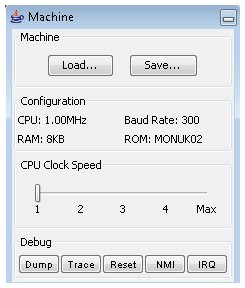
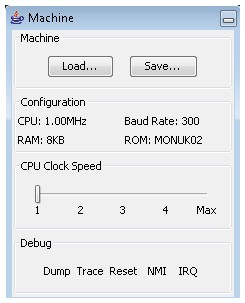
Updates for better operation on a Mac

diff --git a/src/uk101/view/MachineView.java b/src/uk101/view/MachineView.java
@@ -6,26 +6,25 @@
 package uk101.view;
 
 import java.awt.Container;
-import java.awt.FlowLayout;
 import java.awt.GridLayout;
 import java.awt.event.ActionEvent;
 import java.awt.event.ActionListener;
 
+import javax.swing.AbstractButton;
 import javax.swing.BorderFactory;
 import javax.swing.Box;
 import javax.swing.BoxLayout;
 import javax.swing.JButton;
 import javax.swing.JInternalFrame;
 import javax.swing.JPanel;
-import javax.swing.JToolBar;
+import javax.swing.JToggleButton;
 import javax.swing.Timer;
 import javax.swing.event.ChangeEvent;
 import javax.swing.event.ChangeListener;
 
 import uk101.machine.Computer;
+import uk101.view.component.DebugPanel;
 import uk101.view.component.DisplayText;
-import uk101.view.component.SmallButton;
-import uk101.view.component.SmallToggle;
 import uk101.view.component.SpeedSelector;
 
 /**
@@ -64,7 +63,8 @@ public class MachineView extends JInternalFrame implements ActionListener, Chang
         JButton save = new JButton(ComputerView.IMAGE_SAVE);
         load.addActionListener(computerView);
         save.addActionListener(computerView);
-        mp.add(load);  mp.add(Box.createHorizontalStrut(5));
+        mp.add(load);  
+        mp.add(Box.createHorizontalStrut(5));
         mp.add(save);
 
         // Information panel
@@ -86,33 +86,17 @@ public class MachineView extends JInternalFrame implements ActionListener, Chang
         sp.add(cpuClock);
         
         // Debug panel
-        JPanel dp = new JPanel();
-        dp.setAlignmentY(CENTER_ALIGNMENT);
+        AbstractButton[] db = new AbstractButton[5];
+        db[0] = new JButton(MACHINE_DUMP); 
+        db[1] = new JToggleButton(MACHINE_TRACE);
+        db[2] = new JButton(MACHINE_RESET);
+        db[3] = new JButton(MACHINE_NMI); 
+        db[4] = new JButton(MACHINE_IRQ);
+        
+        JPanel dp = new DebugPanel(db, this);
         dp.setBorder(BorderFactory.createTitledBorder("Debug"));
-        if (!Computer.aquaFix1) {
-            // Normally we get the best look for the debug buttons by adding 
-            // the SmallButton instances to a one-line grid layout ... 
-            dp.setLayout(new GridLayout(1, 0));
-            dp.add(new SmallButton(MACHINE_DUMP, this));
-            dp.add(new SmallToggle(MACHINE_TRACE, this)); 
-            dp.add(new SmallButton(MACHINE_RESET, this));
-            dp.add(new SmallButton(MACHINE_NMI, this));
-            dp.add(new SmallButton(MACHINE_IRQ, this)); 
-        } else {
-            // ... but not on Mac Aqua when the buttons end up too large.  
-            // Adding via a JToolBar keeps them nice and small (but looks 
-            // ugly on non-aqua look and feels - especially nimbus!).
-            JToolBar dt = new JToolBar(JToolBar.HORIZONTAL);
-            dt.setFloatable(false);
-            dt.addSeparator();
-            dt.add(new SmallButton(MACHINE_DUMP, this));  dt.addSeparator();
-            dt.add(new SmallToggle(MACHINE_TRACE, this)); dt.addSeparator();
-            dt.add(new SmallButton(MACHINE_RESET, this)); dt.addSeparator();
-            dt.add(new SmallButton(MACHINE_NMI, this));   dt.addSeparator();
-            dt.add(new SmallButton(MACHINE_IRQ, this));   dt.addSeparator(); 
-            dp.add(dt);
-        }    
-   
+        dp.setAlignmentY(CENTER_ALIGNMENT);
+
         JPanel panel = new JPanel();
         panel.setLayout(new BoxLayout(panel, BoxLayout.Y_AXIS));
         panel.add(mp);  panel.add(Box.createVerticalStrut(3));
@@ -137,7 +121,7 @@ public class MachineView extends JInternalFrame implements ActionListener, Chang
         } else if (e.getActionCommand().equals(MACHINE_DUMP)) {
             computer.dump();
         } else if (e.getActionCommand().equals(MACHINE_TRACE)) {
-            computer.trace(((SmallToggle)e.getSource()).isSelected());
+            computer.trace(((JToggleButton)e.getSource()).isSelected());
         } else if (e.getActionCommand().equals(MACHINE_RESET)) {
             computer.cpu.signalReset();
         } else if (e.getActionCommand().equals(MACHINE_NMI)) {

diff --git a/src/uk101/view/component/DebugPanel.java b/src/uk101/view/component/DebugPanel.java
@@ -1,0 +1,46 @@
+/**
+ * Compukit UK101 Simulator
+ *
+ * (C) Copyright Tim Baldwin 2015
+ */
+package uk101.view.component;
+
+import java.awt.GridLayout;
+import java.awt.event.ActionListener;
+
+import javax.swing.AbstractButton;
+import javax.swing.JPanel;
+import javax.swing.JToolBar;
+import javax.swing.UIManager;
+
+/**
+ * Debug button panel for the machine view
+ */
+public class DebugPanel extends JPanel {
+    private static final long serialVersionUID = 1L;
+    
+    public DebugPanel(AbstractButton[] buttons, ActionListener listener) {
+        // Normally use a JToolBar as a way to create a compact row of small
+        // buttons.  But this doesn't look good on the Nimbus look-and-feel as 
+        // it seems to get the size very wrong.  So for Mimbus we just add
+        // small button instances to a grid.  Sadly this doesn't work well in
+        // anything other than Nimbus.
+        if (UIManager.getLookAndFeel().getID().equals("Nimbus")) {
+            setLayout(new GridLayout(1, 0));
+            for (AbstractButton b : buttons) {
+                b.addActionListener(listener);
+                b.putClientProperty("JComponent.sizeVariant", "mini");
+                b.updateUI();
+                add(b);
+            }
+        } else {
+            JToolBar dt = new JToolBar(JToolBar.HORIZONTAL);
+            dt.setFloatable(false);
+            for (AbstractButton b : buttons) {
+                b.addActionListener(listener);
+                dt.add(b);
+            }
+            add(dt);
+        }
+    }
+}

diff --git a/src/uk101/Main.java b/src/uk101/Main.java
@@ -11,6 +11,7 @@ import java.awt.Toolkit;
 import java.awt.event.WindowAdapter;
 import java.awt.event.WindowEvent;
 import java.io.File;
+import java.lang.reflect.Method;
 
 import javax.swing.JFrame;
 import javax.swing.LookAndFeel;
@@ -65,7 +66,6 @@ public class Main implements Runnable {
         } else {
             setLookAndFeel(look);
         }
-        Computer.aquaFix1 = UIManager.getLookAndFeel().getID().equals("Aqua");
 
         // Get machine image to restore
         File imageFile = parms.getInputFile(1);
@@ -168,6 +168,16 @@ public class Main implements Runnable {
         frame.setDefaultCloseOperation(JFrame.DISPOSE_ON_CLOSE);
         frame.setIconImage(icon);
         frame.setContentPane(view);
+        
+        // Hack to try to set the dock icon on a Mac
+        try {
+            Class<?> ac = Class.forName("com.mac.eawt.Application");
+            Method ga = ac.getMethod("getApplication");
+            Method si = ac.getMethod("setDockIconImage", Image.class);
+            Image icon48 = Toolkit.getDefaultToolkit().createImage(Main.class.getResource("icon/uk101-48.png"));
+            si.invoke(ga.invoke(null), icon48);
+        } catch (Exception e) {
+        }
 
         // Ensure we start-up and shut-down cleanly
         frame.addWindowListener(new WindowAdapter() {

diff --git a/src/uk101/machine/Computer.java b/src/uk101/machine/Computer.java
@@ -27,7 +27,6 @@ public class Computer extends Thread implements DataBus {
     // Some flags to control a few special hacks 
     public static boolean videoFix1 = false;
     public static boolean aciaFix1 = false;
-    public static boolean aquaFix1 = false;
 
     // Version
     public String name;
